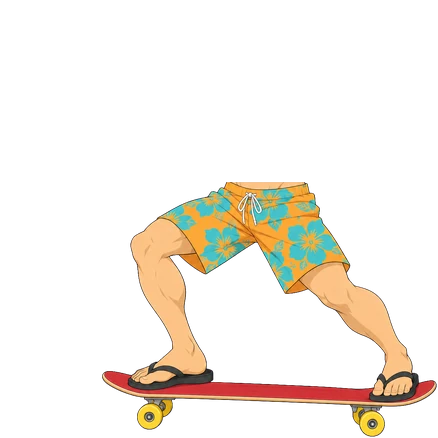
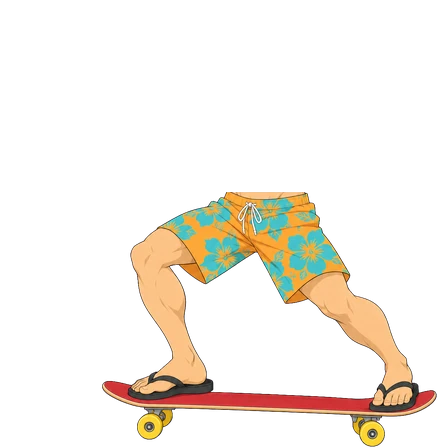
feat: 哥们换成八个形象（留护目镜花短裤，加至尊宝/五阿哥/假面绅士/巴神/悟空/樱木/路飞改版），八选一随机

diff --git a/chashouji/web/crew.js b/chashouji/web/crew.js
@@ -9,7 +9,7 @@
  * anim（可无）是闺蜜那种"呲—呲—"一段段按的喷法：按一下（pulse.on 秒）松一下（pulse.off 秒），
  * 每次按下手臂后坐往上一震（kick），上身喷的时候往前探（lean）；平衡车上人轻轻浮（bob）。
  * 只转一条胳膊、其余一动不动（闺蜜第一版）读成静帧。
- * 形象 skins：哥们三个、闺蜜七个（同一姿势改图换人，make.py 用同一个裁边框出图，所以 foot / muzzle / 转轴全都一样，
+ * 形象 skins：哥们八个、闺蜜七个（同一姿势改图换人，make.py 用同一个裁边框出图，所以 foot / muzzle / 转轴全都一样，
  * 只换贴图）。贴图路径 spr.src 里 %n 换成形象编号、%k 换成层名。召唤时挑场上没人用的那个。
  *
  * **由落点反推枪口**：每帧看该打对方身上哪一点（o.target(u)），按喷出物的出口速度 V 和重力 G 反解要的
@@ -641,9 +641,14 @@ function drawMist(ctx, ps) {
    fluid：出口速度 V、重力 G，每人每秒 rate 滴；miss、snap 见 hitTest；hitEvery 每人多久补一下命中反馈。 */
 const Buddy = Crew({
   face: -1,
-  spr: { src: 'assets/world/buddy%n_%k.webp', body: { src: 'up', pivot: [266, 190], k: 1 }, lo: { src: 'lo' },
-         foot: [260, 436], muzzle: [2, 78] },
-  skins: [1, 2, 3],                 // skate1 棕发护目镜花短裤红滑板 / skate2 反戴红帽黑短裤蓝滑板 / skate3 金发花衬衫迷彩裤黄滑板
+  spr: { src: 'assets/world/buddy%n_%k.webp', body: { src: 'up', pivot: [266, 200], k: 1 }, lo: { src: 'lo' },
+         foot: [260, 446], muzzle: [2, 88] },
+  /* 八个形象，点一次随机挑一个场上没人用的。1 是最早三个里留下的；4~10 是 2026-09-29 加的（用户嫌前三个"整体造型太相近"），
+     借 80/90 后熟知的角色，只留认人特征、发型服饰重新设计（v14/buddy/make.py 有逐个说明）。
+     2、3（反戴红帽 / 金发花衬衫）用户拿掉了，贴图删了。 */
+  skins: [1,                        // skate1 棕发护目镜花短裤红滑板
+          4, 5, 6, 7,               // skate4 金箍浪子（至尊宝）/ skate5 格格府贝勒（五阿哥）/ skate6 夜色假面绅士 / skate7 莫西干球星（巴神）
+          8, 9, 10],                // skate8 刺猬头武道家 / skate9 红发篮球少年 / skate10 草帽船长
   T: { enter: 0.55, spray: 2.5, exit: 0.5 },
   max: 3, gap: 0.3,
   rows: [[0.74, 0.80], [0.66, 0.71], [0.58, 0.63]],
